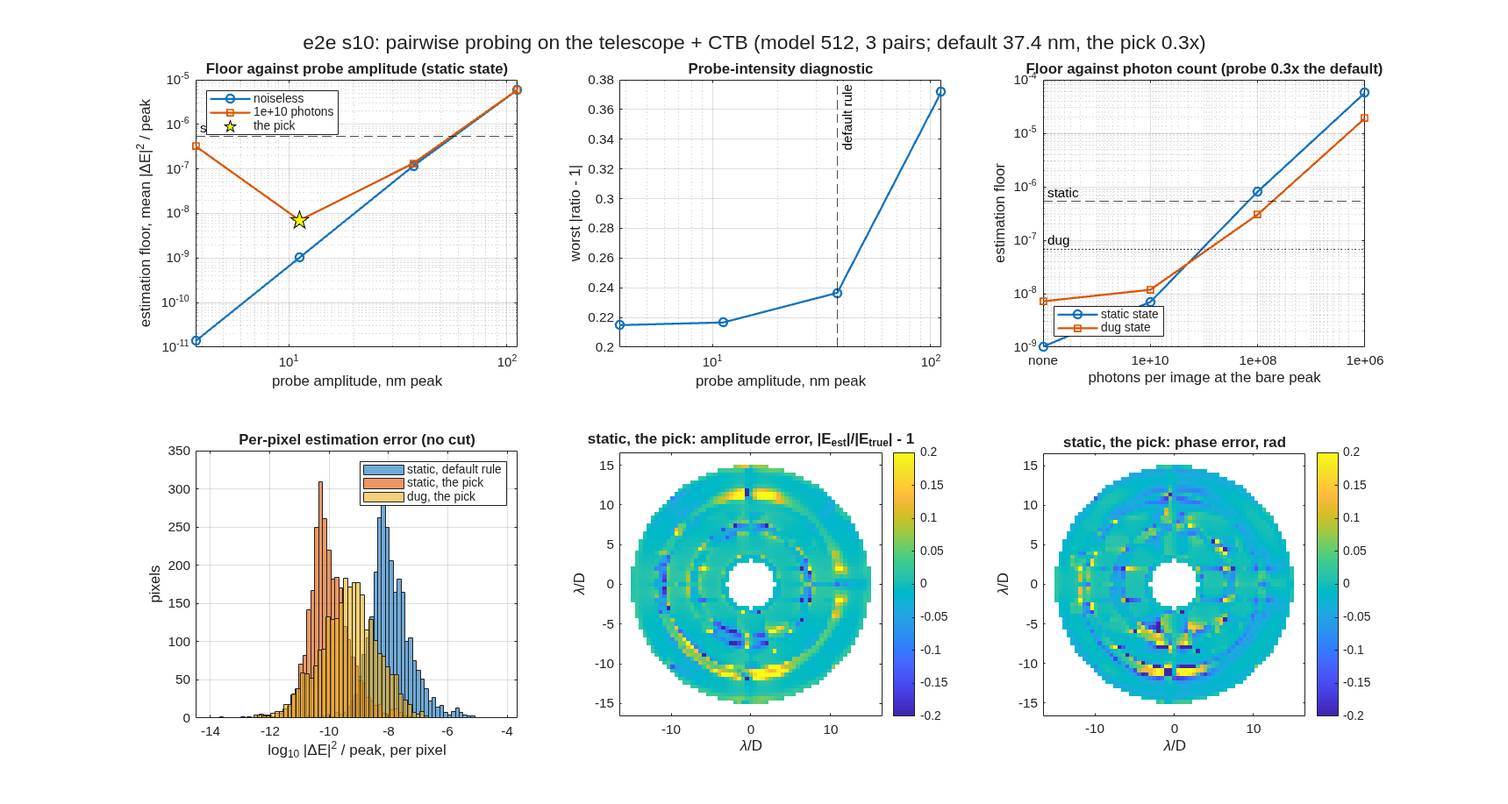
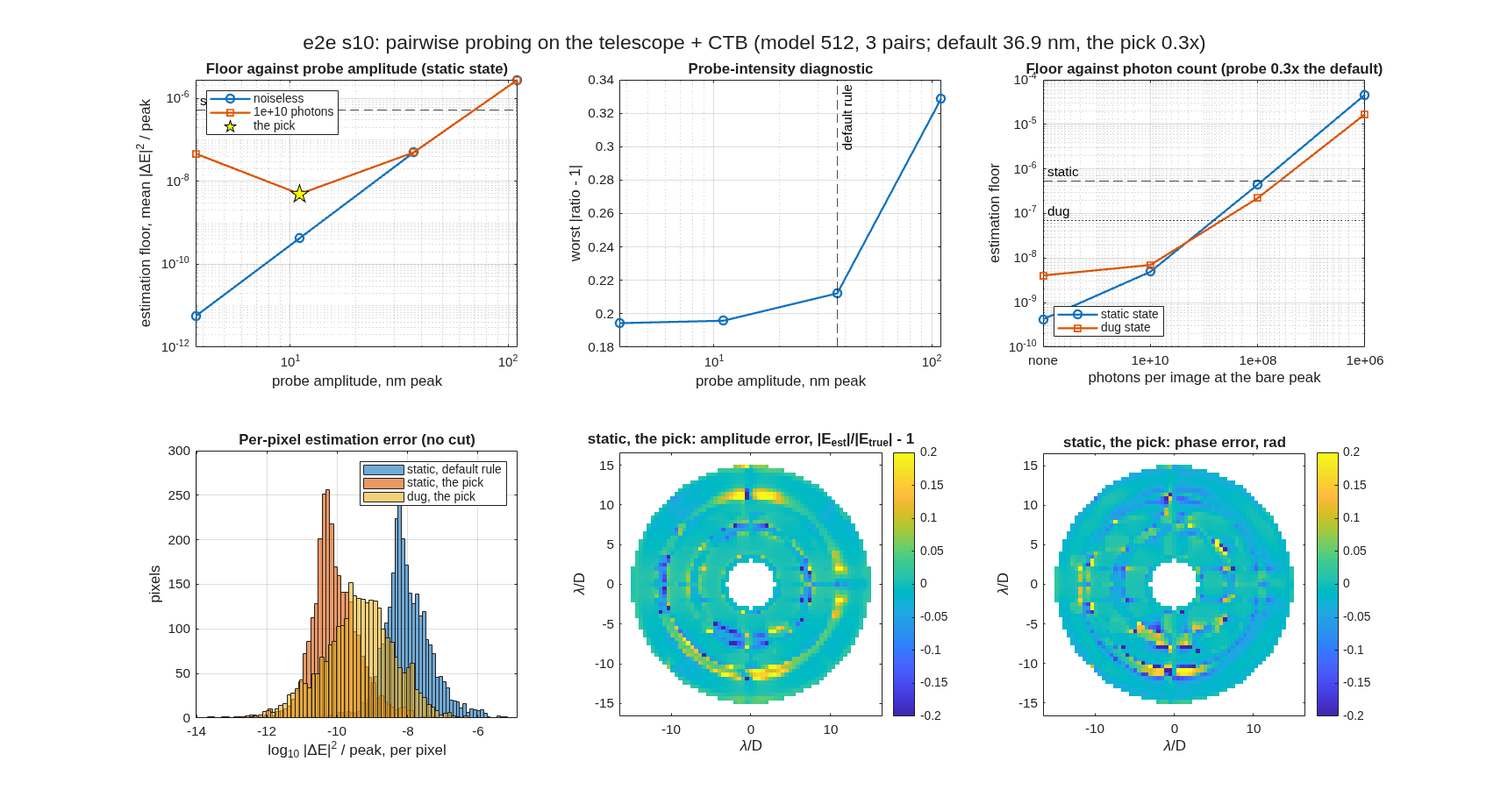
Re-measure the coronagraph chapter's telescope stages on the continuous-slope mirror surfaces
The e2e stages 9 to 11 were re-run with the deformable mirrors' grids interpolated at
GridSrfOrder= 3 (the C1 option landed 2026-10-31), to a 1e-10 goal with the cycle cap at 20.
The model does not move: the static dark zones read the bilinear run's digits and stage 9's
loop reaches 6.9e-8 (x8, its x10 gate still red).  The sensing does: the probe estimate is
2.8 % of the field at the flat-state matrix and under 0.8 % at every matrix measured about
the loop's own state, falling with depth, where the bilinear run lost it at 17 % and failed
the gate.  Perfect sensing reaches the goal in 7 cycles and 115 iterations (7.3e-11), the
probed chain in 9 and 149 (6.2e-11); every stage-11 gate passes.  Below 1e-9 each cycle runs
to its 20-iteration cap at a gain near two, so the last decade costs cycles, not sensing.

Section 8: ch08e re-pinned from the new products (40 pins; the last-estimate pin now prints
two decimals), the cycle paragraphs rewritten (the bilinear run is the history, the order-3
run the record), the three figures and two transcripts regenerated; the e2e catalog page
regenerated from its README.  Engine record: notes/surfaces.md "Grid surfaces are C0" gains
the re-measure; PLAN_CONSOLIDATION 3a and CURRENT_SLICE carry the day.  The resources side
(the 15 Jacobian truths, the deck, the README, the test re-pointing, deck_ctb) is the
matching resources commit.  Dave's word 2026-11-01: "Go ahead with the long Jacobian ...
OK to go longer."

diff --git a/docs/mmacos-manual/tools/transcripts/ch08e_telescope.m b/docs/mmacos-manual/tools/transcripts/ch08e_telescope.m
@@ -126,7 +126,7 @@ mm_pin('ch08_tel_sens_nc',   numel(R.sens.cycles), 'sig5', sprintf('%d', numel(R
 mm_pin('ch08_tel_sens_it',   R.sens.total_iters, 'sig5', sprintf('%d', R.sens.total_iters));
 mm_pin('ch08_tel_sens_end',  R.sens.c_final,  'sig5', e2(R.sens.c_final));
 mm_pin('ch08_tel_sens_c3',   R.sens.cycles(end-1).c_end, 'sig5', e2(R.sens.cycles(end-1).c_end));
-mm_pin('ch08_tel_est_last',  R.sens.cycles(end).est_rel0, 'sig5', sprintf('%.0f %%', 100*R.sens.cycles(end).est_rel0));
+mm_pin('ch08_tel_est_last',  R.sens.cycles(end).est_rel0, 'sig5', sprintf('%.2f %%', 100*R.sens.cycles(end).est_rel0));
 mm_pin('ch08_tel_est_max3',  max([R.sens.cycles(1:end-1).est_rel0]), 'sig5', sprintf('%.1f %%', 100*max([R.sens.cycles(1:end-1).est_rel0])));
 mm_pin('ch08_tel_stroke',    max([R.perf.cycles.stroke_rms_nm, R.sens.cycles.stroke_rms_nm]), 'sig5', ...
     sprintf('%.0f nm', max([R.perf.cycles.stroke_rms_nm, R.sens.cycles.stroke_rms_nm])));

diff --git a/PLAN_CONSOLIDATION.md b/PLAN_CONSOLIDATION.md
@@ -282,7 +282,7 @@ this plan); Dave rules the open questions below and signs off each phase.
 - **RULED (Dave 2026-10-30): recompute-and-restart cycles.**  "Recomputing Jacobians is standard practice in driving contrast lower.  Some times it takes 10 or more recompute-and-restart cycles to approach goal performance.  This takes time, but that's also usual.  Proceed!"  **DONE 2026-10-30 (CCL; code resources 8cdee33, record + the six cycle truths d68043f LOCAL): `e2e/s11_cycles.m` + `e2e_cycles.m`, the thread's stage 11** -- two chains from flat mirrors behind the annular stop, the probed loop at stage 10's pick ('sens') and the perfect-sensing reference ('perf'); each cycle a Jacobian about the chain's own state (62-74 min at model 512; cycle 0 reused stage 9's flat Jacobian in both chains and the perfect chain's cycle 1 reused stage 9's second one, the loops having reproduced those states to the bit), the loop until it stalls, the next cycle from where it ended, until a cycle gains under 5 %, the goal 1e-8, or the cap of 10; resumable (`tests/tE2eCycles.m`, SUITE_CTB_512, 2/0 in 20 min).  **RESULT: both chains reach the goal.**  Perfect sensing: 5.267e-7 -> 1.441e-7 (7 iterations) -> 6.701e-8 (10) -> 2.398e-8 (20) -> 9.685e-10 (20; a 25x cycle), 4 cycles, 57 iterations, strokes 11.1/10.7 nm rms.  Probed: 5.267e-7 -> 1.927e-7 (3) -> 7.421e-8 (7) -> 4.709e-8 (15) -> 1.676e-8 (3) -> 5.646e-9 (3), 5 cycles, 31 iterations, strokes 11.6/10.7.  Dave's rule holds on this model: stage 9's single round gave 6.7e-8 and two more cycles gave another 70x; the probed loop needs ONE cycle more than perfect sensing (gate: at most 2) and fewer iterations.  The probe estimate at each fresh Jacobian: 4.4 / 3.1 / 1.5 / 3.3 / 17.3 % of the field at 5.3e-7 / 1.9e-7 / 7.4e-8 / 4.7e-8 / 1.7e-8.  **Gates:** every cycle no brighter at its end, strokes under 50 nm, the probed chain reaches the goal, in 5 cycles vs 4 -- PASS; the per-cycle estimate within 10 % -- FAIL at cycle 4 (17.3 %), DIAGNOSED not re-gated: at the 1.7e-8 state the probe-amplitude window has closed -- 0.68 nm 45 %, 2.0 nm 17 %, 6.8 nm 95 %, 20 nm 131 % (at the 4.7e-8 state one cycle earlier 3.5 nm gives 3.3 % and 11.7 nm 5.6 %); the error sits in 1 % of the pixels (57-86 % of it), where the sinc probes' own field is near a null and the per-pixel 2x2 solve divides by almost nothing (worst conditioning 5e3); five pairs instead of three take it to 13 % (floor 3.0e-10 vs 5.0e-10, conditioning 1.6e3); noiseless throughout.  The loop dug to the goal on that estimate anyway (3 iterations).  **Gate rewritten before the record, with the argument:** the first draft gated the two chains' ENDS within 1.5x, but both stop on the same goal rule at different overshoots (one cycle gained 25x), so the ends are not a sensing comparison; the record gates the cycles to the goal (`P.sens.cycles.extra_cycles_max` 2) and reports the per-cycle-index ratio ([1.34 1.11 1.96 17.3] for cycles 0-3).  **For Dave:** (1) the probed loop reaches the goal in one cycle more than perfect sensing and 26 fewer iterations -- the lab-relevant number; (2) the estimator's floor at depth is a few null pixels of the sinc probes, not the Jacobian: the remedies are a weighted or regularized per-pixel solve (drop or down-weight pixels under a probe-energy floor), more pairs, or probe shapes without nulls over the annulus -- CC's recommendation is the weighted solve first (one function, cheap, testable on the saved cycle-4 state); (3) the per-cycle estimate gate stays at 10 % and FAILS until that lands -- the record says so.
 - **PUSHED 2026-10-31 (Dave's word in this session): macos 3e6055e6..61829870, resources 1c324c7..d68043f.  Then Dave: "Before you resume chasing contrast, let's update the mmacosMan and the deck_ctb with the latest results -- I want to send an early version of each out soon to a couple of the HWO folks."  DONE 2026-10-31 (CCL; macos this commit, resources the deck commit):** (1) the mmacos manual, Section 8 gains "The coronagraph on the telescope" (8.7, printed pages 60-63; FIGURES 28-30, Part II's figures now 31-61 via `gen_part2.py FIRST_FIGURE`): a new driver `tools/transcripts/ch08e_telescope.m` that RUNS NO TEMPLATE -- the three stages cost about eight hours, so it reads s9/s10/s11_run.mat and the stages' own figures from the library's e2e directory (errors if absent; 40 pins, two listings, the header says how to refresh), the stage-9 model + loop, the stage-10 findings and the stage-11 cycles in the chapter's register; TO's stage-10 sentence in the "What to ask next" bullet (970e1194) is subsumed by the section and the bullet replaced by two asks the stages serve (cycles to a deeper goal; five pairs / a smaller probe); the chapter intro no longer says the coupled model does not exist; OPEN_QUESTIONS closes the two entries; 136 pp; mmacosMan.pdf + mmacosMan_edit.docx + build/mmacosMan_edit_base.docx refreshed (the edit copy was pristine).  The tools appendix's live count of design/src moved 75 -> 80 (the five fold utilities), a generated number.  (2) deck_ctb v7 (resources): slides 16 "Sensing the field on the telescope" (stage 10: default probe 47 % off, 0.3x 4.4 %, the two bench diagnostics that do not transfer, the loop on estimates, photons) and 17 "Recompute-and-restart cycles to 1e-8" (both chains' per-cycle contrasts, 4 cycles / 57 iterations vs 5 / 31, where the estimate runs out at 1.7e-8 and the weighted solve as next), figures ctb_e2e_probe.png / ctb_e2e_cycles.png = the stages' own figures unmodified; slide 15's "what is next" bullet removed (done), slide 9's footnote points at 16-17, Next (18) rewritten ("Sensing at depth": the weighted solve, the anamorphic lattice, FALCO), References (19) gains Give'on, Kern & Shaklan 2011; README 25 slides.  Style gate (STYLE_REPORTS section 5) run on both sources: clean -- Dave approves both before they go out (outward-facing).
 - **Dave 2026-10-31 "Go!" on the weighted per-pixel probe solve (CCL).  MEASURED on the saved cycle-4 state, NOT the fix -- and the real cause found (resources this commit; the engine record `notes/surfaces.md`, "Grid surfaces are C0"):** (1) `ctb_probe_solve` gains 'reg' (Tikhonov, relative to the typical probe energy) and 'energy_floor'; on the cycle-4 images the plain 17.3 % becomes 16.2 % at reg 1e-3 and worse beyond (3 pairs; 5 pairs 13.3 -> 13.5 %); the worst 1 % of pixels carry 57 % of the error at a probe energy 0.32x the typical (NOT near a null: the 1st percentile is 0.065x) and 95 % of the error lies along the per-pixel weak eigen-direction -- the solve amplifies an error that is in the PROBE FIELDS: with the engine's own probe fields in place of the Jacobian's the same images give 3.1 %.  Kept, default 0, documented as measured.  (2) The probe-field error is not linearization (single pokes are linear to 1e-3 from 0.05 to 20 nm) but the plant's PIECEWISE linearity in a full-DM pattern: ray 7643 steps at 0.04 nm, ray 21226 between 0.42 and 0.43 nm (path +29.6 nm at the apodizer, a single-pixel 8 % field step, 2.6e-12 of contrast = 23 % of the probe's field); 68 rays by 1 nm, 156 by 2 nm; localized element by element to DM2 (element 14): the ray's footprint crossed a bilinear cell boundary of the grid surface (7.4e-9 m moved; ray 7643's footprint 4.36e-9 m from its boundary, the two cells' gradient difference 4.7e-6 rad = the observed kink to the digit).  The grid term of `FreeFormSrf` is C0 (`INTNORM` bilinear) -- the normal jumps at every cell edge by 2e-6 rad median / 1e-5 at the 90th percentile / 9e-5 max on this 10-nm-rms state.  Ruled out with measurements: the per-trace sampling (`DXCALC`), the aim dead bands, the chief ray, the `tol=1d-10` of `AsphGridSrf`/`UDSrf` (absolute in deck units = 0.1 nm on the metre deck, latent but UNUSED by GridData: a private build at 1d-16 reproduced every number to the bit), a finer grid (ng 512 / 1024 under a private param file: the 2-nm odd error 26 -> 19 -> 8 %, the steps remain).  (3) DELIVERED: `bench_ctb/ctb_dm_linearity.m` (the diagnostic: odd-response deviation, stepped-ray count, the worst ray and the element where it departs) and `tE2eSensing/test_grid_dm_c0_steps_pinned` (SUITE_CTB_512; pins TODAY's steps on stage 11's cycle-4 state, a LOCAL product -- Incomplete without it; a seeded random 10-nm-rms state with four 90-nm actuators shows NO step up to 5 nm, the EFC-shaped state does: the cell-edge slope jumps are in the solution's structure; the one-line swap to zero steps is written in the leg).  **FOR DAVE (engine ruling): a C1 grid interpolation (bicubic / Catmull-Rom, continuous gradient) in the grid term of `FreeFormSrf` (and `AsphGridSrf`'s path), as an option first -- every grid deck in the corpus will move in the A/B (the manual says "linear interpolation" for gridded surfaces) and the e2e Jacobian truths are re-measured behind it; CC expects it to take the probe estimate at depth under 10 % and to lower the cycles' 1e-9 floor.  Until then the stage-11 per-cycle gate FAILS as recorded, for a cause now known.**  deck_ctb README's slide count corrected (28: title + 19 main + 7 backup).
-- **RULED (Dave 2026-10-31): "In the past I used Timoshenko influence functions -- see the User Defined Surface code for more. But for now, I accept your recommendation. Go!"  DONE 2026-10-31 (CCL; engine macos a3b6a00b, the record this commit; resources the gate commit): `GridSrfOrder= 3` = a C1 Catmull-Rom bicubic in every grid kernel site (the keyword existed but only AsphGridSrf's sag honoured it, through a global spline with a never-refreshed table -- retired from the dispatch).**  Order 1 bit-identical: corpus A/B 280b5ff3 -> a3b6a00b 0 movers both compilers, load 160/160, must-fail 3/3 (records here).  Measured on the cycle-4 state with a fresh order-3 Jacobian (70.6 min): probe estimate 17.3 % -> 0.32 % (5 pairs 13.3 -> 0.27 %), the Jacobian's probe model 9.3 -> 0.10 %, the sum ratio 1.01 again, zero stepped rays, the probed loop from that state 2.08e-8 -> 1.14e-9 in 20 iterations (order 1 stalled at 5.65e-9 after 3; perfect 8.6e-10).  Against the DM model's own Gaussian influence function the bilinear surface is 3.7 % off, the bicubic 0.6 % (`tGridInterp`); `tE2eSensing/test_grid_dm_c1_no_steps` is the gate for the fix beside the order-1 pin.  The stages carry `P.grid_order` (default 1; every committed record is order 1).  **For Dave:** (1) switch the e2e stages to order 3 and re-measure the six Jacobian truths (about 7 h at model 512), then re-run the stage-11 cycles -- the per-cycle estimate gate should then PASS and the 1e-9 floor move; (2) the manual's 8.7 and deck_ctb v7 name "the weighted solve" as the open item -- superseded; corrected in the next commits before the HWO send; (3) the C1 kernel is per-element deck state (`GridSrfOrder=`), no session mode, no binding change; (4) a Timoshenko / analytic influence-function element (your old UDS code) remains the better DM model long term -- the C1 option fixes every grid-surface user, which is why it went first.  Two traps recorded (mmacos/CLAUDE.md): the templates addpath the SHARED src (a private mex needs a private templates tree; every "private build" number of the morning was the shared engine, which voids nothing that was argued from the code), and a MATLAB from the editor's Bash tool lives in the editor's cgroup (three OOM crashes from a units bug in the new gate; heavy jobs now run as `systemd-run --user --scope -p MemoryMax=12G`).
+- **RULED (Dave 2026-10-31): "In the past I used Timoshenko influence functions -- see the User Defined Surface code for more. But for now, I accept your recommendation. Go!"  DONE 2026-10-31 (CCL; engine macos a3b6a00b, the record this commit; resources the gate commit): `GridSrfOrder= 3` = a C1 Catmull-Rom bicubic in every grid kernel site (the keyword existed but only AsphGridSrf's sag honoured it, through a global spline with a never-refreshed table -- retired from the dispatch).**  Order 1 bit-identical: corpus A/B 280b5ff3 -> a3b6a00b 0 movers both compilers, load 160/160, must-fail 3/3 (records here).  Measured on the cycle-4 state with a fresh order-3 Jacobian (70.6 min): probe estimate 17.3 % -> 0.32 % (5 pairs 13.3 -> 0.27 %), the Jacobian's probe model 9.3 -> 0.10 %, the sum ratio 1.01 again, zero stepped rays, the probed loop from that state 2.08e-8 -> 1.14e-9 in 20 iterations (order 1 stalled at 5.65e-9 after 3; perfect 8.6e-10).  Against the DM model's own Gaussian influence function the bilinear surface is 3.7 % off, the bicubic 0.6 % (`tGridInterp`); `tE2eSensing/test_grid_dm_c1_no_steps` is the gate for the fix beside the order-1 pin.  The stages carry `P.grid_order` (default 1; every committed record is order 1).  **For Dave:** (1) switch the e2e stages to order 3 and re-measure the six Jacobian truths (about 7 h at model 512), then re-run the stage-11 cycles -- the per-cycle estimate gate should then PASS and the 1e-9 floor move; (2) the manual's 8.7 and deck_ctb v7 name "the weighted solve" as the open item -- superseded; corrected in the next commits before the HWO send; (3) the C1 kernel is per-element deck state (`GridSrfOrder=`), no session mode, no binding change; (4) a Timoshenko / analytic influence-function element (your old UDS code) remains the better DM model long term -- the C1 option fixes every grid-surface user, which is why it went first.  Two traps recorded (mmacos/CLAUDE.md): the templates addpath the SHARED src (a private mex needs a private templates tree; every "private build" number of the morning was the shared engine, which voids nothing that was argued from the code), and a MATLAB from the editor's Bash tool lives in the editor's cgroup (three OOM crashes from a units bug in the new gate; heavy jobs now run as `systemd-run --user --scope -p MemoryMax=12G`).  **RE-MEASURED 2026-11-02 (CCL, Dave's word 2026-11-01): stages 9-11 at order 3 to a 1e-10 goal (18.5 h): the model's statics unchanged to the digit, stage 9's EFC 6.88e-8 (x8, the x10 gate still red); stage 11 perfect 7 cycles / 115 it to 7.3e-11, probed 9 / 149 to 6.2e-11 with the estimate 2.8 % at the flat-state Jacobian and under 0.8 % at every Jacobian about the state (bilinear: 17 % and red) -- ALL stage-11 gates pass; below 1e-9 each cycle hits the 20-iteration cap at a gain near 2.  The 15 truths, the deck, manual Section 8 and deck_ctb 15-18 carry it (the commits that carry this line); the engine record is `notes/surfaces.md` "Grid surfaces are C0".**
 - **A pairwise-probing estimator (Dave 2026-10-28, yes):** DM probe pairs, pairwise image differences, the electric-field estimate scored against the true field the model gives; **order RULED (Dave 2026-10-28): the estimator on the CTB first; then the fold; then the coupled telescope+CTB diffraction model; then pairwise probing on the coupled system.**  **CTB leg DONE (TO, 2026-10-28, local):** `bench_ctb/ctb_probe_estimate.m` + `ctb_probe_solve.m`, `ctb_efc('sensing', ...)` (default 'true', every pin unchanged), `tests/tCtbProbe.m` (5 tests, red before, in SUITE_CTB_512), manual Section 8 ch08d (FIGURES 24-27; Part II now 28-58).  Measured on the re-pinned decks: default probes 9.25 nm peak, floor 4.35e-10 / 3.9 % of the field at contrast 2.934e-7, ratios 1.011-1.013; small probes 1.3 % (the Jacobian's bias, (eeee)), 1.6e-4 with central differences; photons 1e10/1e8/1e6 -> floor 4.6e-10/4.1e-9/3.7e-7; EFC 10 iterations: perfect 8.78e-9, noiseless estimate 8.90e-9, 1e8 photons 9.15e-9.  Found on the way: three x-oriented probes leave the pixels within 1/2 lambda/D of the y axis singular (condition 1e7) -- alternate probes turned 90 degrees (condition 9).
 - **Why the better Jacobian digs less (Dave 2026-10-29, from 1.2 (eeee)):** on the shipped hard occulter (N=512, 3-15 lambda/D) `ctb_efc` on the central-difference Jacobian reaches 8.296e-9 in 24 iterations where the one-sided Jacobian reached 8.060e-9 in 19 (ch08b); the ten-iteration runs of ch08d move the same way (+2.1 to +2.4 %).  The gap opens at iteration 1 (1.001e-7 against 9.56e-8) and holds; the central run flattens at 8.297e-9 from iteration 18 and crawls at alpha 1e-2 until no alpha improves.  Not measured; the working reading is that the floor is set by the fixed-G error (G measured at flat DMs, used at about 10 nm rms stroke) and by the alpha line search's decade grid (1e-4 / 1e-3 / 1e-2), both larger than the 1.2-1.5 % poke bias, so a 1 % change in the columns (s_max 1002 -> 999.5) moves where the loop settles by a few percent either way.  The tests, cheapest first, each a few minutes on the cached N512 Jacobians: (1) EFC on the central G scaled by 1.013 -- if most of the gap closes, it is regularization sensitivity, not Jacobian accuracy; (2) both Jacobians on a finer alpha grid (sqrt(10) steps) -- if they meet, the grid made the gap; (3) predicted against achieved field change per step for both (the diagnosis battery's correlation) -- which models the finite steps better; (4) a Jacobian re-measured at the dug state (26 min) -- the README's next depth lever, and the test of what sets the floor.  Report the four numbers; no pin moves unless the shipped method changes.  **MEASURED (TO 2026-10-30, Dave's "keep going in order"; scratch runs on the cached N512 Jacobians, nothing shipped changed, no pin moved):** the floor is set by the FIXED Jacobian, not by its accuracy.  (1) As written the test is a no-op: `alphas` are fractions of s_max^2, so scaling G scales s, U'e and alpha together and da is unchanged.  Run instead as the central Jacobian on the one-sided run's ABSOLUTE alphas (s_max 1001.74 vs 999.52, alpha x1.00446): 8.2970e-9 against 8.2963e-9 -- regularization is not it.  (2) sqrt(10) alpha grid (9 values): one-sided 8.0635e-9 in 18, central 8.2938e-9 in 20 -- the gap holds (2.9 %); the grid is not it (both start faster, 6.8e-8 / 6.9e-8 at iteration 1).  (3) Predicted (G da) against achieved field change on every kept step: the linear model misses by 51-52 % at iteration 1 and a median 270-300 % over the run, and the two Jacobians score the same steps alike to 1 % (one-sided run: own 2.739, other 2.736; central run: own 3.046, other 3.049) -- the 1.2-1.5 % poke bias is two orders below the step nonlinearity, and which floor a run reaches is a property of its path.  (4) A central Jacobian re-measured at the central run's dug state (1714 s; deck byte-identical): it differs from the flat-DM Jacobian by 10.4 % (Frobenius), eight times the poke bias; from the same state the fresh G digs 8.296e-9 -> 3.608e-9 in 25 iterations, still falling ~0.6 % per iteration, where the flat-DM G cannot take one step ("no alpha improves"); at that state the fresh G predicts the first step to 14 % and the flat G misses by 180 %.  Reading: the README's next depth lever (re-linearize) is the lever, worth 2.3x at the first re-linearization; the one-sided/central difference is noise on the path.  Not done (for Dave): shipping a re-linearized round in ch08b (a 26-min Jacobian per round, a new pin), or a cheaper rank-update of G along the path.  Scratch: scratchpad/jacdig (ctb_efc_diag.m, run_digs.m, run_dug.m, digs.mat, dug.mat, Jd.mat).
 - **Fold the CTB coronagraph to fit the shroud (Dave 2026-10-28, from the mmacos manual ch. 2 case C):** the case-C feed (OAP1 f = 0.3819 m, DM1 at the stop image 465.1 mm, DM2 at 965.1 mm, the anamorphic exit beam) is laid out unfolded; the realized instrument has to fold into the telescope shroud, under the standing design drivers (AOI < 15 deg at every fold, shroud fit as a numeric clearance gate, relay = small).  Chapter 2 presents the unfolded case C and states the fold as future work; the fold is its own beat after the manual (add_fold on the case-C layout, a clearance gate with its margin as a number, the dark-zone and DM-walk numbers re-measured after the fold).  **DONE 2026-10-29 (CCL, resources LOCAL): `templates/80_end_to_end/e2e/s8_coronagraph.m`, the thread's stage 8.**  Case C unfolded reaches r = 6.66 m against the telescope's own 2.50 m envelope (shroud_deck: 1.25 x D, the imager's detector at the rim).  The volume behind the instrument bench (z > 0.3 m, inside 2.5 m) holds no telescope beam, so the fold is ONE near-normal flat on the converging feed (F0, 0.30 m before the focus, 8 deg of deviation = AOI 4) that lifts the chain and turns it back across the aperture, the CTB's own accordion run in the vertical plane with its turn pattern inverted once after DM2 (the drift reverses: the chain climbs to 0.90 m and stays there), every OAP and DM at the template's 5 deg, relay scale 1 (the finder tries 0.75 and 0.5 only if 1 fails; it did not).  Gates, each a number (s8_report.txt): rays 1180 = unfolded; FPA 0.00813 waves = unfolded; DM2 walk at 10" 4.691 vs 4.716 mm (0.5 %: the accordion's plane rotates each OAP's off-axis direction against the anamorphic beam -- a flat fold is an isometry, the plane change is not); largest AOI 5.0; shroud margin +0.235 m (CTB bodies to r = 2.265); clearance CTB-vs-telescope +160 mm (leg M7->F0 vs M6), within the CTB +31 mm (FieldStop->OAP7 leg vs the Backend marker, bodies sized over a 1" field); lowest CTB body at the bench plane (z 0.300; Dave's 0.6 m keep-out behind the PM is reported as -0.30, the e2e bench itself sits at fold_frac x D = 0.3).  Train length 6.58 -> 7.19 m.  The telescope's own worst pair, M3->M4 vs its fold flat FM, is -26 mm on the exact measure (the e2e's 1.15x fold margin was judged at beam centres): a pre-existing e2e finding, reported, not gated.  Tools: `design/src/deck_clearance.m` (exact signed leg-to-body clearance of a SPLICED deck, bodies = footprint discs over a field set + mount, the primary's hole as the design, base / add-on / cross tables), `ctb_fold_build.m` (the case-C chain with the fold knobs), `ctb_fold_measure.m`, `ctb_stop_image.m`, `ctb_template_params.m`; gate `tests/tE2eCoroFold.m` (size-256 group: the isometry, the rules, a planted body reads negative, the relay scale moves lambda/D).  NOT measured: the dark zone -- the coupled diffraction model is the next beat, and it carries the fold's geometry (relay scale 1, so the masks' lambda/D is the template's 31.6 um).  The manual's chapter 2 now DRAWS the folded instrument (Dave 2026-10-29): ch02b replays the pick on the thread's telescope by ctb_fold_build / ctb_fold_measure (listing ch02_ctb_fold, 17 new pins: margin 0.234 m, clearance 149 mm cross / 31 mm own, walk -0.69 %, FM -22 mm on that deck), FIGURE 5 = view_std of the folded train, FIGURE 6 = the bench in world elevation + the train in plan inside the envelope; the 18 case-C pins unchanged.

diff --git a/docs/mmacos-manual/src/transcripts/ch08_tel_run.md b/docs/mmacos-manual/src/transcripts/ch08_tel_run.md
@@ -3,23 +3,23 @@
     [s9] central Lyot blocker, pupil radii [0 0.08 0.12 0.16 0.2] -> 5.795e-06 5.267e-07 6.295e-07 7.013e-07 6.923e-07
     [s9] the pick 0.08: static 5.267e-07; flattening DM1 (0.0024 -> 0.0001 waves rms on the pupil, 0.90 nm rms on DM1): 5.267e-07
     [s9] model limit: pupil axis ratio 1.0417, PSF core axis ratio 1.0001; static 5.912e-06 .. 6.146e-06 over the occulter bracket
-    [s9] EFC, control matrix at the flat mirrors: 5.267e-07 -> 1.441e-07 in 7 iterations, strokes 7.79 / 6.19 nm rms
-    [s9] re-measured about that state: 1.441e-07 -> 6.701e-08 in 10 more, strokes 8.56 / 8.42 nm rms
-    [s10] the default amplitude rule: 37.4 nm peak (0.94 rad), estimate 6.583e-07 against the field's 5.267e-07, floor 1.18e-07, relative error 0.473, ratios 1.237 1.034 1.028
-    [s10] amplitude 0.1x =   3.74 nm: noiseless floor 1.38e-11, relative error 5.11e-03; at 1e10 photons floor 3.24e-07, error 7.84e-01
-    [s10] amplitude 0.3x =  11.22 nm: noiseless floor 1.03e-09, relative error 4.41e-02; at 1e10 photons floor 7.02e-09, error 1.15e-01
-    [s10] amplitude 1.0x =  37.39 nm: noiseless floor 1.18e-07, relative error 4.73e-01; at 1e10 photons floor 1.35e-07, error 5.06e-01
-    [s10] amplitude 3.0x = 112.17 nm: noiseless floor 5.97e-06, relative error 3.37e+00; at 1e10 photons floor 5.98e-06, error 3.37e+00
-    [s10] the pick 0.3x = 11.2 nm (0.28 rad): relative error 0.044, floor 1.03e-09
-    [s10] photons none  : floor 1.03e-09, relative error 4.41e-02
-    [s10] photons 1e+10 : floor 7.02e-09, relative error 1.15e-01
-    [s10] photons 1e+08 : floor 8.10e-07, relative error 1.24e+00
-    [s10] photons 1e+06 : floor 5.74e-05, relative error 1.04e+01
-    [s10] the dug state 6.701e-08 with the matrix measured about the flat state: relative error 0.328; at that matrix's own point (1.441e-07): 0.0117
-    [s10] EFC on the estimate, matrix fixed: 5.267e-07 2.623e-07 2.001e-07 1.927e-07
-    [s10]   perfect sensing (stage 9):   5.267e-07 2.633e-07 1.913e-07 1.585e-07 1.464e-07 1.455e-07 1.444e-07 1.441e-07
-    [s10] re-measured on the estimate:  1.927e-07 9.279e-08 7.699e-08 7.682e-08
-    [s10]   perfect sensing (stage 9):   1.441e-07 7.931e-08 6.976e-08 6.776e-08 6.743e-08 6.723e-08 6.709e-08 6.702e-08 6.701e-08 6.701e-08 6.701e-08
-    [s11] cycles to 10, stop below x1.05 per cycle, goal 1.0e-08; probe 0.3x the default
-    [s11] perfect sensing: 4 cycles, 57 iterations, 5.267e-07 -> 9.685e-10, stop 'goal'
-    [s11] probed:          5 cycles, 31 iterations, 5.267e-07 -> 5.646e-09, stop 'goal'
+    [s9] EFC, control matrix at the flat mirrors: 5.267e-07 -> 1.435e-07 in 6 iterations, strokes 7.58 / 6.02 nm rms
+    [s9] re-measured about that state: 1.435e-07 -> 6.877e-08 in 9 more, strokes 8.39 / 8.16 nm rms
+    [s10] the default amplitude rule: 36.9 nm peak (0.93 rad), estimate 5.915e-07 against the field's 5.267e-07, floor 4.91e-08, relative error 0.305, ratios 1.212 1.033 1.028
+    [s10] amplitude 0.1x =   3.69 nm: noiseless floor 5.59e-12, relative error 3.26e-03; at 1e10 photons floor 4.62e-08, error 2.96e-01
+    [s10] amplitude 0.3x =  11.07 nm: noiseless floor 4.23e-10, relative error 2.83e-02; at 1e10 photons floor 4.92e-09, error 9.67e-02
+    [s10] amplitude 1.0x =  36.90 nm: noiseless floor 4.91e-08, relative error 3.05e-01; at 1e10 photons floor 4.93e-08, error 3.06e-01
+    [s10] amplitude 3.0x = 110.71 nm: noiseless floor 2.78e-06, relative error 2.30e+00; at 1e10 photons floor 2.78e-06, error 2.30e+00
+    [s10] the pick 0.3x = 11.1 nm (0.28 rad): relative error 0.028, floor 4.23e-10
+    [s10] photons none  : floor 4.23e-10, relative error 2.83e-02
+    [s10] photons 1e+10 : floor 4.92e-09, relative error 9.67e-02
+    [s10] photons 1e+08 : floor 4.43e-07, relative error 9.17e-01
+    [s10] photons 1e+06 : floor 4.63e-05, relative error 9.37e+00
+    [s10] the dug state 6.877e-08 with the matrix measured about the flat state: relative error 0.243; at that matrix's own point (1.435e-07): 0.0079
+    [s10] EFC on the estimate, matrix fixed: 5.267e-07 2.595e-07 1.944e-07 1.742e-07 1.722e-07
+    [s10]   perfect sensing (stage 9):   5.267e-07 2.605e-07 1.883e-07 1.560e-07 1.450e-07 1.443e-07 1.435e-07
+    [s10] re-measured on the estimate:  1.722e-07 8.945e-08 7.666e-08 7.632e-08
+    [s10]   perfect sensing (stage 9):   1.435e-07 8.020e-08 7.113e-08 6.918e-08 6.893e-08 6.883e-08 6.878e-08 6.877e-08 6.877e-08 6.877e-08
+    [s11] cycles to 20, stop below x1.05 per cycle, goal 1.0e-10; probe 0.3x the default
+    [s11] perfect sensing: 7 cycles, 115 iterations, 5.267e-07 -> 7.316e-11, stop 'goal'
+    [s11] probed:          9 cycles, 149 iterations, 5.267e-07 -> 6.234e-11, stop 'goal'

diff --git a/docs/mmacos-manual/src/08_coronagraph.md b/docs/mmacos-manual/src/08_coronagraph.md
@@ -258,10 +258,12 @@ about the loop's own state, run the loop until it stalls, measure again from whe
 repeat until the dark zone reaches a goal, here %pin:ch08_tel_goal% (`e2e_cycles`, resumable from
 a state file; each matrix about %pin:ch08_tel_jac_min% minutes here). With perfect sensing the goal
 takes %pin:ch08_tel_perf_nc% cycles and %pin:ch08_tel_perf_it% iterations, ending at
-%pin:ch08_tel_perf_end%; the last cycle alone gains %pin:ch08_tel_perf_last% times. On probe
-estimates it takes %pin:ch08_tel_sens_nc% cycles and %pin:ch08_tel_sens_it% iterations, ending at
-%pin:ch08_tel_sens_end%: one cycle more and fewer iterations than perfect sensing, since a cycle on
-estimates stalls sooner. Strokes stay under %pin:ch08_tel_stroke% rms on both mirrors.
+%pin:ch08_tel_perf_end%; the gains are uneven, one cycle alone covering more than a decade (the
+transcript below), the last %pin:ch08_tel_perf_last% times. On probe estimates it takes
+%pin:ch08_tel_sens_nc% cycles and %pin:ch08_tel_sens_it% iterations, ending at
+%pin:ch08_tel_sens_end%: two cycles more than perfect sensing, the stage's allowance. Below 10⁻⁹
+every cycle of either chain runs to its twenty-iteration cap gaining about twice, so the last decade
+costs cycles, not sensing. Strokes stay under %pin:ch08_tel_stroke% rms on both mirrors.
 
 <!-- transcript: ch08_tel_cycles -->
 
@@ -271,18 +273,22 @@ estimates stalls sooner. Strokes stay under %pin:ch08_tel_stroke% rms on both mi
 (squares; dotted, its own estimate) and for perfect sensing (circles); each dotted vertical is a
 control matrix re-measured about the state; the goal dashed.
 
-The estimate at each fresh matrix is within %pin:ch08_tel_est_max3% of the field through the first
-four cycles and %pin:ch08_tel_est_last% at the fifth, from %pin:ch08_tel_sens_c3%. The stage's
-report marks that check as failed and says why: at that depth no probe amplitude tried estimates the
-field within the bound. The loop dug to the goal on that estimate anyway. The cause was then run down
-to the engine, not the estimator: the deformable mirrors are grid surfaces, and between its nodes a
-grid was interpolated bilinearly, so a ray whose footprint on the second mirror crosses a cell edge
-under a sub-nanometre change of the first takes the two cells' slope difference as a kink and steps
-its path by tens of nanometres. The engine now offers a continuous-slope interpolation
-(`GridSrfOrder= 3` in the mirror's block; the emitter's `'order', 3`); at the same state with a
-control matrix measured on it the estimate reads 0.3% of the field, and the loop from that state
-reaches 1.1×10⁻⁹ in twenty iterations. The stage records above were measured on the bilinear
-surface; re-measuring them on the continuous one is the open item.
+The estimate at each fresh matrix is within %pin:ch08_tel_est_max3% of the field, that at the
+first cycle on the matrix measured at the flat mirrors, and under one per cent at every matrix
+measured about the loop's own state, %pin:ch08_tel_est_last% at the last from
+%pin:ch08_tel_sens_c3% (the transcript's last column): the estimate improves as the field dims,
+as the probe's second-order term predicts.
+
+These records are measured with the mirrors' grids interpolated with continuous slope
+(`GridSrfOrder= 3` in each mirror's block; the emitter's `'order', 3`, the thread's
+`P.grid_order`). The stage's first run, on the engine's bilinear default, reached a 10⁻⁸ goal in five
+cycles but its estimate at the fifth matrix was 17% off the field, and the cause was run down to the
+engine, not the estimator: the deformable mirrors are grid surfaces, and between its nodes a bilinear
+grid has a continuous height but not a continuous slope, so a ray whose footprint on the second
+mirror crosses a cell edge under a sub-nanometre change of the first takes the two cells' slope
+difference as a kink and steps its path by tens of nanometres. The continuous-slope interpolation
+removes it (at that same state the estimate went from 17% to 0.3%), the stage records were
+re-measured on it, and the bilinear surface stays the engine's default for every other deck.
 
 ### Checking the assistant's work
 

diff --git a/macos_f90/notes/surfaces.md b/macos_f90/notes/surfaces.md
@@ -554,7 +554,7 @@ ray is lost and the field is silently all zero.
 - `Calc_RayDielectricTC` / `Calc_RayMetalTC` (utilsub.F) are stubs returning 0 into `rayTC`, which
   nothing reads: the grating transmission coefficient is not implemented.
 
-## Grid surfaces are C0: a ray that crosses a cell boundary STEPS (OPEN, 2026-10-31, e2e stage 11 follow-up)
+## Grid surfaces are C0: a ray that crosses a cell boundary STEPS (2026-10-31; FIXED as the `GridSrfOrder= 3` option the same day; the e2e stage records re-measured on it 2026-11-02)
 *(Measured by CCL on the coupled telescope + CTB deck at stage 11's cycle-4 state, model 512, DM grids 256 over 45 mm = 3.8 cells per 0.66-mm actuator pitch; the record is PLAN_CONSOLIDATION 3a; the diagnostic is `bench_ctb/ctb_dm_linearity.m`, the pin `tE2eSensing/test_grid_dm_c0_steps_pinned` on the cycle-4 state -- a seeded random 10-nm-rms state with four 90-nm actuators shows no step up to 5 nm; the EFC solution's structure carries the large cell-edge slope jumps.)*
 - The grid term of `FreeFormSrf` (surfsub.F, `GridSrf`/`MonGridSrf` wrap it) interpolates `GridMat` BILINEARLY
   (`INTNORM`, mathsub.F) inside the cell `IDFLOOR(xi), IDFLOOR(yj)`: the sag is continuous across cell boundaries,
@@ -617,4 +617,19 @@ ray is lost and the field is silently all zero.
   engine), and a MATLAB launched from the editor's Bash tool lives in the editor's cgroup (a 23-GB runaway
   from a units bug in the new gate took the editor and both sessions down three times: run heavy jobs as
   `systemd-run --user --scope -p MemoryMax=12G`).
+- **RE-MEASURED at order 3 (2026-11-02, CCL; Dave 2026-11-01 "go ahead with the long Jacobian ... OK to go longer"):**
+  e2e stages 9-11 re-run with `P.grid_order = 3`, the cycle cap 20 and the goal 1e-10 (18.5 h, one MATLAB in a
+  12-GB scope; the bilinear products are kept in `~/dev/MACOS_sandbox/e2e_bilinear_2026-11-01/`).  The model does
+  not move: static 5.795e-6 / 5.267e-7 with the blocker, the same digits as the bilinear run; stage 9's EFC
+  1.435e-7 -> 6.877e-8 (x8, the x10 gate still FAILS, as before).  What moves is the sensing: the pick's
+  estimate 4.4 -> 2.8 %, the default rule 47 -> 31 %, the dug state 33 -> 24 % (about its own point 1.2 ->
+  0.8 %).  Stage 11 to 1e-10: perfect sensing 7 cycles / 115 iterations to 7.3e-11 (one cycle x33), the probed
+  chain 9 / 149 to 6.2e-11 with the estimate 2.8 % at the reused flat-state Jacobian and 0.06-0.8 % at every
+  Jacobian about the loop's own state, FALLING with depth (bilinear: 17 % at the fifth and the gate red) --
+  ALL stage-11 gates pass.  Below 1e-9 every cycle of either chain hits the 20-iteration cap at a gain near 2:
+  the last decade costs cycles, not sensing.  Thirteen Jacobians, 57-73 min each.  The 15 `.fp.json` truths,
+  `s9_coupled_dm.in` (now carries `GridSrfOrder=  3` on both DMs), manual Section 8 (ch08e re-pinned, the
+  cycle prose rewritten) and deck_ctb slides 15-18 are the order-3 record; `tE2eSensing`'s C0 pin now re-emits
+  the deck at order 1 to keep the defect visible, the C1 gate re-emits at order 3 (both on the order-3 cycle-4
+  state).  Open: the Timoshenko / analytic influence-function element as the long-term DM model.
 

diff --git a/CURRENT_SLICE.md b/CURRENT_SLICE.md
@@ -3917,3 +3917,16 @@ promote-on-land pass.**
 
 - TO (lens templates, Opus 5.5, `BRIEF_to_lens_templates.md`) found `GlassElt=` resolving by PREFIX and the table lacking N-SF5 / N-F2.  Dave: "1. Add the glasses. 2. Fix it now."  macos 4ed926b4 (LGLASSEQ at the parser / NEW / MOD sites; an unknown name is said at load; the two Schott rows; builtin regenerated) + c14069bc (the journal pinned from its transcript).  Gates from the clean worktree `~/dev/macos_cli_base`: load 160/160 both compilers, must-fail decks fail, A/B a3b6a00b -> 4ed926b4 0 movers both; cmd 122/122 pass + 3 must-fail fail both, `GLASSELT_exact` among them.  Shared trees + mex rebuilt at 4ed926b4 in TO's idle window (the shared trees had been at 10-30; a3b6a00b's order-3 kernels are in the shared mex only since this rebuild).  Record: `notes/rx_io.md` last section, PLAN 1.2 ticked.
 - Policy from Dave today: the public branches stay open THROUGH TODAY to capture TO's lens steps, then go quiet (local work, snapshots to the private backups `ajax147/*-local`, a private content repo `ajax147/MACOS_private`); the team is told tomorrow.  IODC parked (res f4c4134).  Push set: macos 4ed926b4, c14069bc, this record; resources e400a38, 8a1743c, 148cd92 (+ the parked set a341a8c..f4c4134) -- macos FIRST, step 3's catalog resolves the new rows by name.
+
+## 2026-11-02 (CCL) -- the e2e stage records re-measured at GridSrfOrder= 3; the Mac release brief
+
+- Stages 9-11 re-run at order 3 (cap 20, goal 1e-10; scratchpad `o3run/`, 09:05 -> 03:36, 18.5 h; the bilinear
+  products in `~/dev/MACOS_sandbox/e2e_bilinear_2026-11-01/`).  Statics unchanged; stage 9's EFC 6.88e-8 (x8, gate
+  x10 still red); stage 11 ALL gates pass: perfect 7/115 to 7.3e-11, probed 9/149 to 6.2e-11, the estimate under
+  0.8 % at every Jacobian about the state.  Record: resources (15 `.fp.json` truths, `s9_coupled_dm.in`,
+  README, `e2e_params` comments, `tE2eSensing` C0 pin re-emits order 1, deck_ctb 15-18 + four figures + pptx);
+  macos (ch08e re-pinned, Section 8 cycle prose, 228_e2e page, `notes/surfaces.md`, PLAN 3a).  PDF + edit copies
+  refreshed 03:43.
+- Pushed on Dave's word: macos a791b271..33b5f0e7, resources 5be3a4c..c8d7ca3.  TO's camera rework (resources
+  b0f0f9b, macos b8ff6433) and the order-3 record await his next push word.  `BRIEF_ccmac_release_gate.md`
+  written (two runs of the Mac gate: now, and after Andy's rewrite = the Mac release sign-off).

diff --git a/docs/mmacos-manual/src/transcripts/ch08_tel_cycles.md b/docs/mmacos-manual/src/transcripts/ch08_tel_cycles.md
@@ -1,10 +1,17 @@
     chain    cycle  matrix        start      end       iterations  gain   strokes nm rms   estimate error
-    perfect  0      reused      5.267e-07  1.441e-07   7        x 3.66   7.79 /  6.19
-    perfect  1      reused      1.441e-07  6.701e-08  10        x 2.15   8.56 /  8.42
-    perfect  2      measured    6.701e-08  2.398e-08  20        x 2.79  10.50 /  9.71
-    perfect  3      measured    2.398e-08  9.685e-10  20        x24.76  11.14 / 10.72
-    probed   0      reused      5.267e-07  1.927e-07   3        x 2.73   7.04 /  5.40    0.044
-    probed   1      measured    1.927e-07  7.421e-08   7        x 2.60   8.32 /  7.90    0.031
-    probed   2      measured    7.421e-08  4.709e-08  15        x 1.58   9.76 /  8.40    0.015
-    probed   3      measured    4.709e-08  1.676e-08   3        x 2.81  10.81 / 10.36    0.033
-    probed   4      measured    1.676e-08  5.646e-09   3        x 2.97  11.64 / 10.69    0.173
+    perfect  0      reused      5.267e-07  1.435e-07   6        x 3.67   7.58 /  6.02
+    perfect  1      reused      1.435e-07  6.877e-08   9        x 2.09   8.39 /  8.16
+    perfect  2      measured    6.877e-08  2.890e-08  20        x 2.38  10.38 /  9.46
+    perfect  3      measured    2.890e-08  8.721e-10  20        x33.13  11.17 / 10.78
+    perfect  4      measured    8.721e-10  3.145e-10  20        x 2.77  11.67 / 10.89
+    perfect  5      measured    3.145e-10  1.498e-10  20        x 2.10  12.09 / 11.19
+    perfect  6      measured    1.498e-10  7.316e-11  20        x 2.05  12.51 / 11.52
+    probed   0      reused      5.267e-07  1.722e-07   4        x 3.06   6.95 /  5.34    0.028
+    probed   1      measured    1.722e-07  7.406e-08   6        x 2.33   8.19 /  7.75    0.008
+    probed   2      measured    7.406e-08  4.279e-08  20        x 1.73   9.69 /  8.46    0.006
+    probed   3      measured    4.279e-08  5.126e-09  20        x 8.35  11.69 / 11.73    0.004
+    probed   4      measured    5.126e-09  9.617e-10  19        x 5.33  12.01 / 11.30    0.003
+    probed   5      measured    9.617e-10  3.930e-10  20        x 2.45  12.31 / 11.35    0.002
+    probed   6      measured    3.930e-10  2.049e-10  20        x 1.92  12.56 / 11.57    0.001
+    probed   7      measured    2.049e-10  1.127e-10  20        x 1.82  12.86 / 11.84    0.001
+    probed   8      measured    1.127e-10  6.234e-11  20        x 1.81  13.20 / 12.12    0.001

diff --git a/docs/mmacos-manual/src/228_e2e.md b/docs/mmacos-manual/src/228_e2e.md
@@ -14,7 +14,7 @@ here are thin narrative drivers over them.  s3–s6 already work this
 way (`run_segmentation`/`run_sensitivities`/`run_met`/`run_compare`);
 s1–s2 promote to `run_design` in a later recast pass.
 
-All user knobs live in **`e2e_params.m`** — one file, commented (`P.grid_order` among them: the DM blocks' `GridSrfOrder=`, 1 = bilinear as every committed stage record was measured, 3 = the engine's C1 bicubic; a change re-measures the Jacobian truths).  Each
+All user knobs live in **`e2e_params.m`** — one file, commented (`P.grid_order` among them: the DM blocks' `GridSrfOrder=`, 3 = the engine's C1 bicubic, on which every committed stage 9-11 record and Jacobian truth is measured since 2026-11-02, 1 = the engine's bilinear default; a change re-measures the Jacobian truths).  Each
 stage consumes the previous stage's saved artifacts (`.in` + `.mat` +
 sidecars), so a knob change re-runs from the first stage it affects.
 
